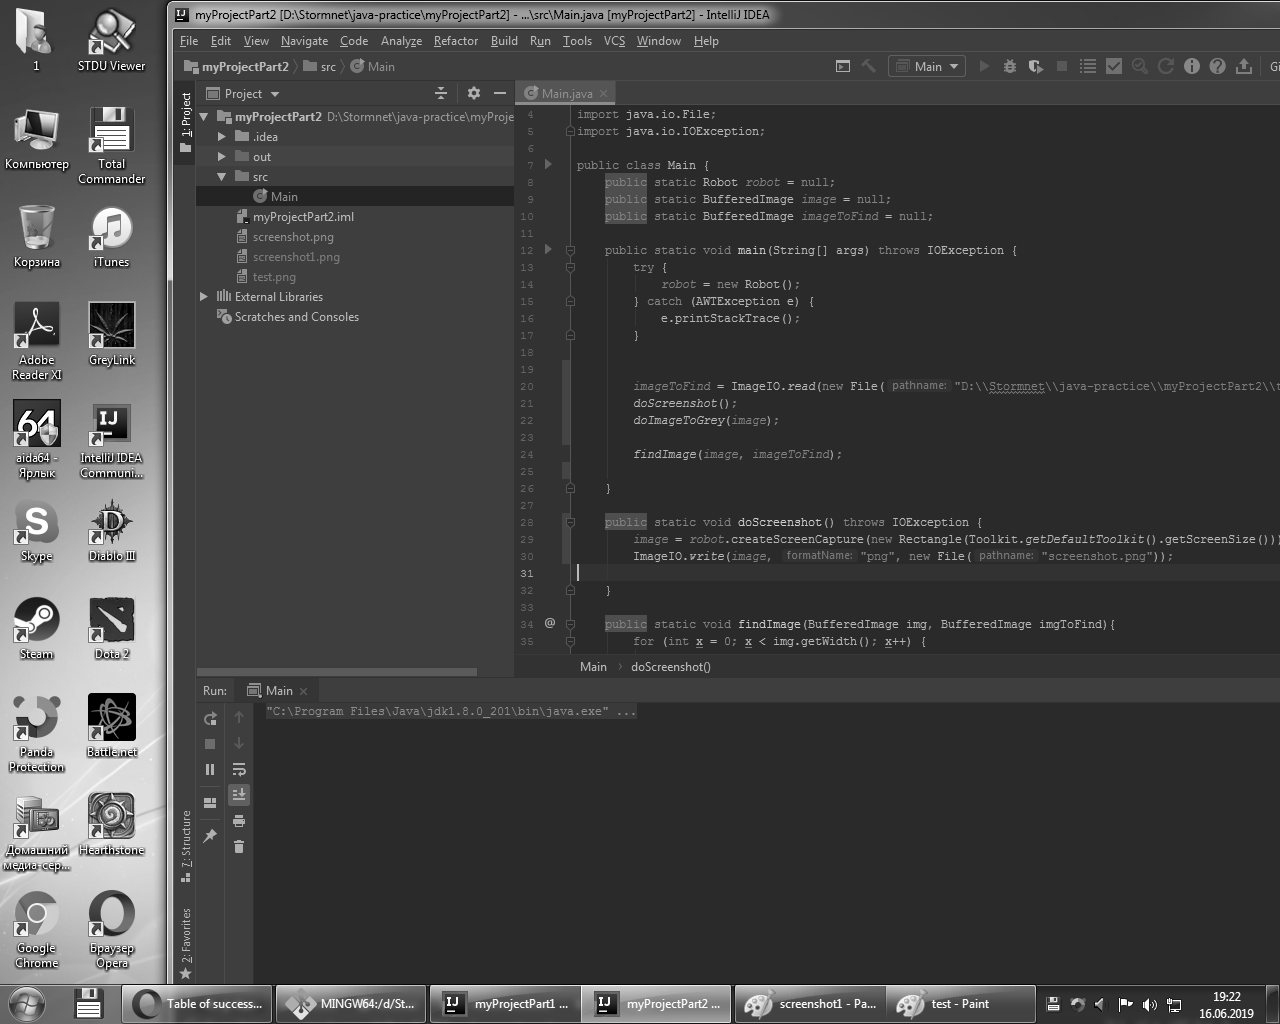
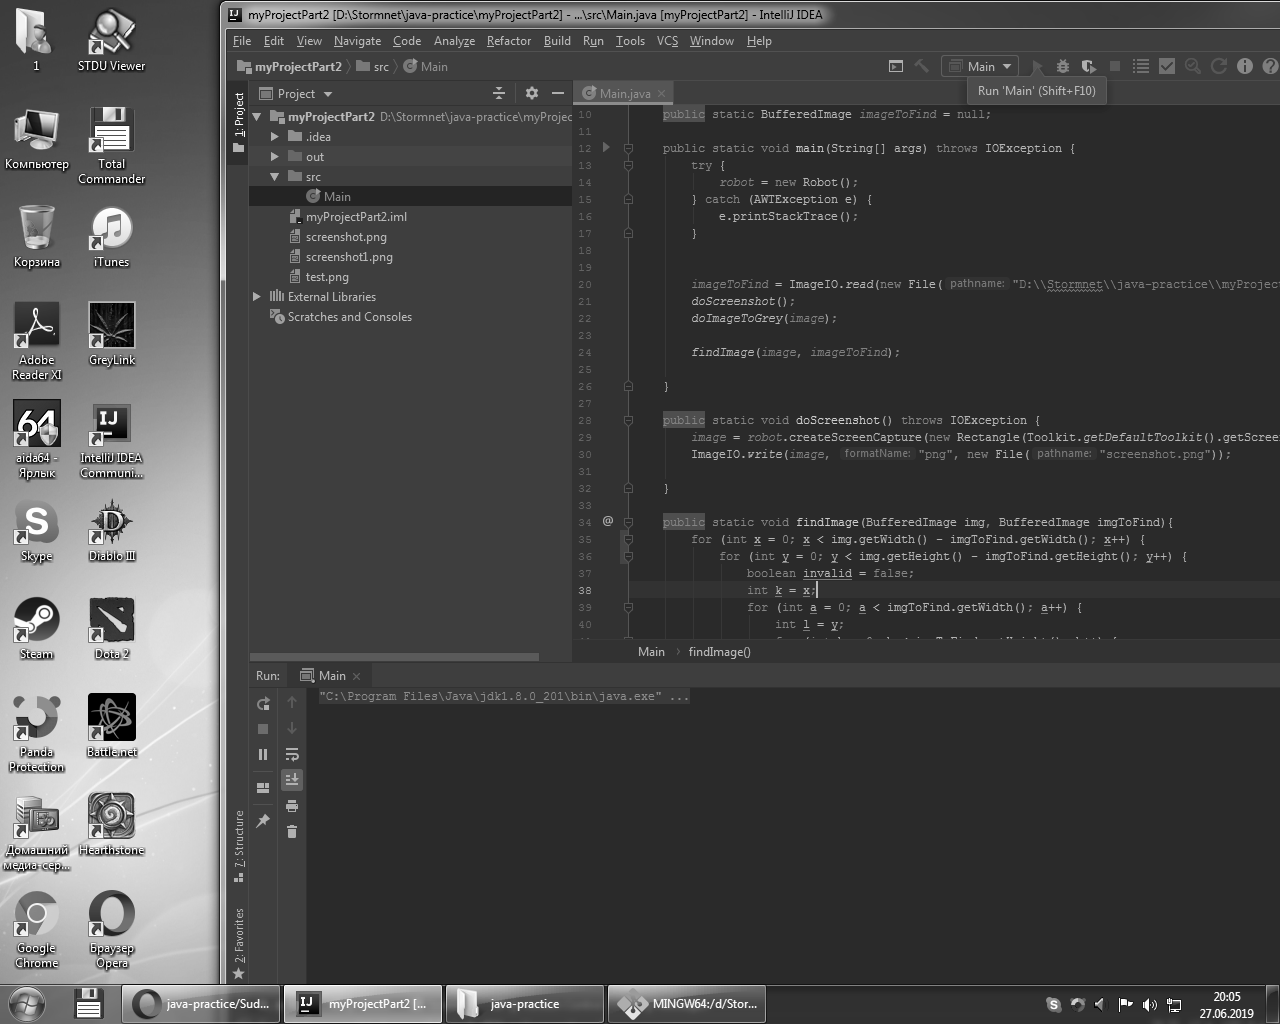
part2 #2

diff --git a/myProjectPart2/src/Main.java b/myProjectPart2/src/Main.java
@@ -32,8 +32,8 @@ public class Main {
     }
 
     public static void findImage(BufferedImage img, BufferedImage imgToFind){
-        for (int x = 0; x < img.getWidth(); x++) {
-            for (int y = 0; y < img.getHeight(); y++) {
+        for (int x = 0; x < img.getWidth() - imgToFind.getWidth(); x++) {
+            for (int y = 0; y < img.getHeight() - imgToFind.getHeight(); y++) {
                 boolean invalid = false;
                 int k = x;
                 for (int a = 0; a < imgToFind.getWidth(); a++) {
